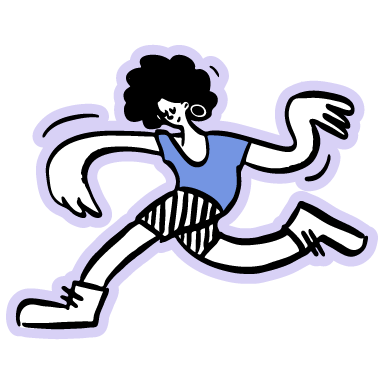
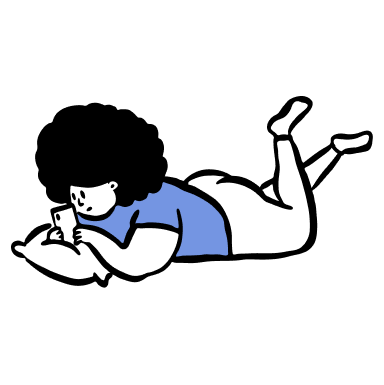
Initial setup for donate page. Improve contact page illustrations and use less images

diff --git a/src/pages/donate.tsx b/src/pages/donate.tsx
@@ -1,28 +1,34 @@
 import type { GetStaticProps, NextPage } from 'next';
 import Head from 'next/head';
-import { useMemo } from 'react';
 
-import { Layout } from '@/components/elements';
-import { Contact as ContactSection } from '@/sections';
+import { Heading, Img, Link } from '@/components/atoms';
+import { OpenDoodle } from '@/components/compounds';
+import { Layout, Section } from '@/components/elements';
 import type { RandomPageImage } from '@/types';
-import { getRandomItem } from '@/utils';
 
-const Contact: NextPage<{ images: Array<RandomPageImage> }> = (props) => {
-  const { images } = props;
-  const image = useMemo(() => {
-    return getRandomItem(images);
-  }, [images]);
+const Donate: NextPage<{ images: Array<RandomPageImage> }> = (props) => {
   return (
     <Layout>
       <Head>
-        <title>Contact | Jahir Fiquitiva</title>
+        <title>Donate</title>
       </Head>
-      <ContactSection image={image} />
+      <Section id={'donate'} centered>
+        {(props.images || []).map((img) => {
+          return (
+            <OpenDoodle
+              key={img.key}
+              src={`/static/images/donate/${img.key}.png`}
+              alt={img.alt}
+              flip={img.key < 3}
+            />
+          );
+        })}
+      </Section>
     </Layout>
   );
 };
 
-export default Contact;
+export default Donate;
 
 const imagesAlts: Array<string> = [
   'Person taking a selfie with a t-shirt that says hi',

diff --git a/src/components/compounds/OpenDoodle.tsx b/src/components/compounds/OpenDoodle.tsx
@@ -1,0 +1,44 @@
+import type { ComponentProps } from 'react';
+
+import { Img } from '@/components/atoms';
+import type { FC } from '@/types';
+import { styled } from '~/stitches';
+
+const StyledImg = styled(Img, {
+  $$shadowSize: 0,
+  $$shadowColor: '#fff',
+  filter:
+    'drop-shadow(-$$shadowSize -$$shadowSize calc($$shadowSize / 2) $$shadowColor)' +
+    ' drop-shadow($$shadowSize $$shadowSize calc($$shadowSize / 2) $$shadowColor)' +
+    ' drop-shadow(-$$shadowSize $$shadowSize calc($$shadowSize / 2) $$shadowColor)' +
+    ' drop-shadow($$shadowSize -$$shadowSize calc($$shadowSize / 2) $$shadowColor)',
+  variants: {
+    flip: {
+      true: {
+        transform: 'scaleX(-1)',
+      },
+    },
+  },
+});
+
+interface OpenDoodleProps {
+  shadowSize?: number;
+  shadowColor?: string;
+}
+
+export const OpenDoodle: FC<
+  ComponentProps<typeof StyledImg> & OpenDoodleProps
+> = (props) => {
+  const { shadowSize = 6, shadowColor = '#D8D1F6', css, ...otherProps } = props;
+  return (
+    <StyledImg
+      size={384}
+      css={{
+        ...css,
+        $$shadowSize: `${shadowSize}px`,
+        $$shadowColor: shadowColor,
+      }}
+      {...otherProps}
+    />
+  );
+};

diff --git a/src/sections/Contact.tsx b/src/sections/Contact.tsx
@@ -6,6 +6,7 @@ import { Section } from '@/components/elements';
 import { useHasMounted } from '@/hooks';
 import type { FC, RandomPageImage } from '@/types';
 import { styled } from '~/stitches';
+import { OpenDoodle } from '@/components/compounds';
 
 const Grid = styled('div', {
   display: 'grid',
@@ -99,13 +100,12 @@ export const Contact: FC<{ image: RandomPageImage }> = ({ image }) => {
   const imageComponent = useMemo(() => {
     if (!hasMounted) return null;
     return (
-      <Img
+      <OpenDoodle
         src={`/static/images/contact/${image.key}.png`}
         alt={image.alt}
         size={image.width || 384}
-        placeholder={'blur'}
-        blurDataURL={image?.base64 || ''}
         css={{ width: '100%', height: 'auto', maxWidth: 320, mx: 'auto' }}
+        shadowSize={4}
         priority
       />
     );

diff --git a/src/components/compounds/index.tsx b/src/components/compounds/index.tsx
@@ -1,4 +1,5 @@
 export * from './InstaFeed';
 export * from './Loading';
 export * from './Masonry';
+export * from './OpenDoodle';
 export * from './WavingHello';
